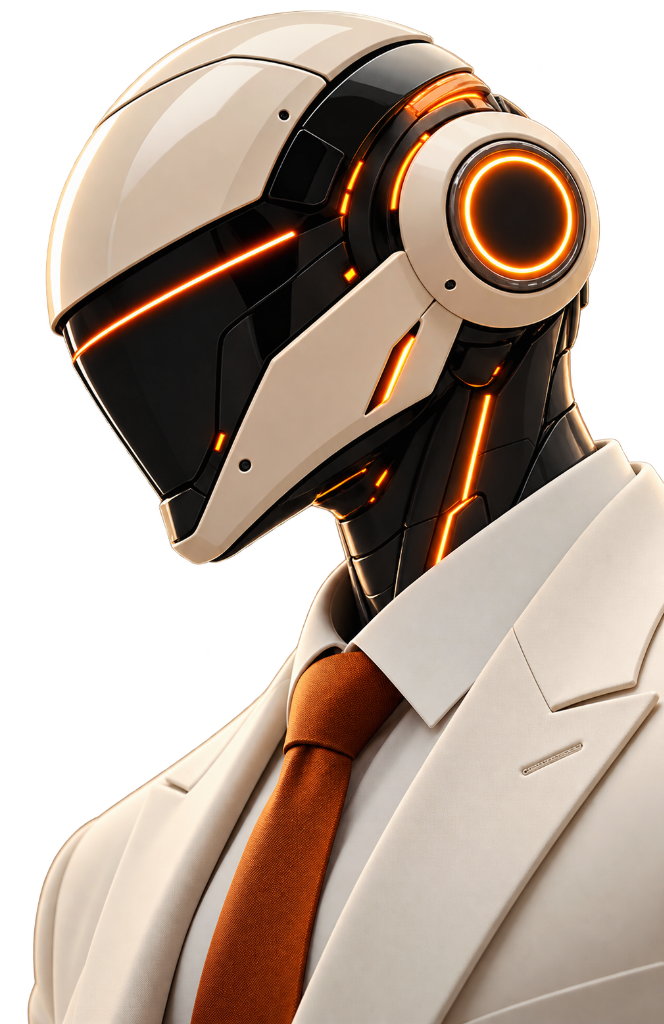
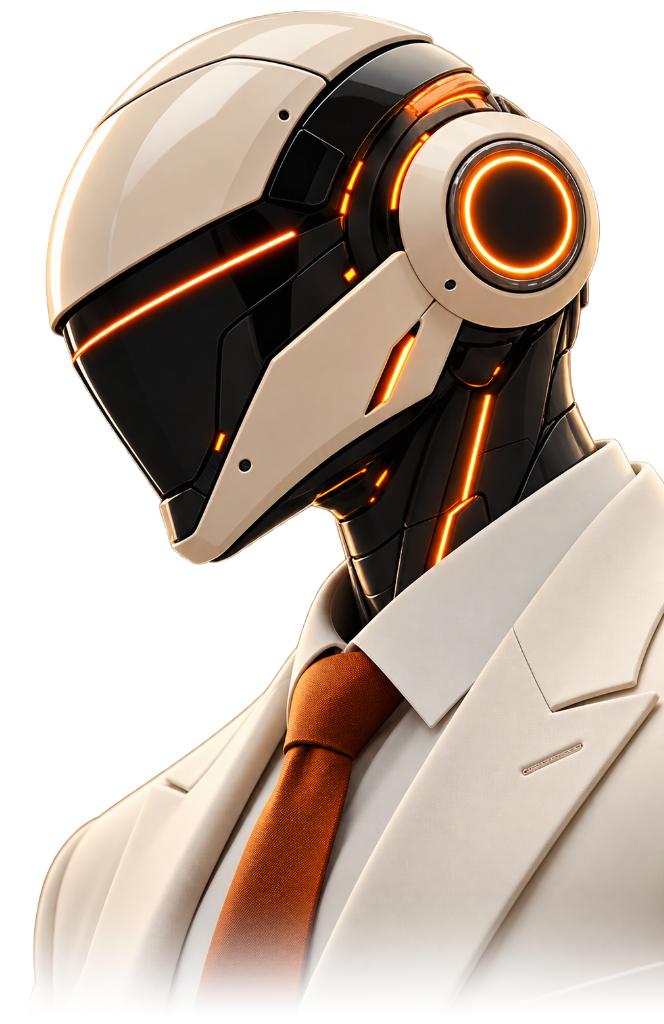
fix(mobile-hero): zoom and stretch robot asset, feather bottom suit edges, and align layout to mockup

Changed region(s): [[0.0301, 0.875, 1.0, 1.0]]

diff --git a/src/components/HeroSection.tsx b/src/components/HeroSection.tsx
@@ -491,7 +491,7 @@ const HeroSectionComponent: React.FC<HeroSectionProps> = ({ onTalkClick }) => {
           .hero-root-section {
             padding-top: 54px !important;
             min-height: auto !important;
-            background-color: #f4ecde !important;
+            background-color: #f5e9d9 !important;
           }
           .mobile-hero-layout {
             position: relative;
@@ -501,7 +501,7 @@ const HeroSectionComponent: React.FC<HeroSectionProps> = ({ onTalkClick }) => {
             flex-direction: column;
             justify-content: flex-end;
             overflow: hidden;
-            background-color: #f4ecde;
+            background-color: #f5e9d9;
             padding: 0 20px 24px 20px;
             box-sizing: border-box;
           }
@@ -509,11 +509,10 @@ const HeroSectionComponent: React.FC<HeroSectionProps> = ({ onTalkClick }) => {
           /* Right-Anchored Background Robot in Suit (Soft fade at lower edge) */
           .mobile-robot-backdrop {
             position: absolute;
-            top: 0;
-            right: 0;
-            left: 0;
-            width: 100%;
-            height: clamp(560px, 78vh, 680px);
+            top: -24px;
+            right: -6%;
+            width: 110%;
+            height: clamp(660px, 86vh, 820px);
             pointer-events: none;
             z-index: 1;
             display: flex;
@@ -536,7 +535,7 @@ const HeroSectionComponent: React.FC<HeroSectionProps> = ({ onTalkClick }) => {
             position: relative;
             z-index: 5;
             width: 100%;
-            margin-top: clamp(250px, 34vh, 320px);
+            margin-top: clamp(260px, 35vh, 320px);
             padding: 0;
           }
 
@@ -548,7 +547,7 @@ const HeroSectionComponent: React.FC<HeroSectionProps> = ({ onTalkClick }) => {
             line-height: 1.1;
             letter-spacing: -0.025em;
             margin: 0 0 14px 0;
-            max-width: 70%;
+            max-width: 85%;
           }
 
           .mobile-hero-subtext {
@@ -558,7 +557,7 @@ const HeroSectionComponent: React.FC<HeroSectionProps> = ({ onTalkClick }) => {
             line-height: 1.45;
             font-weight: 400;
             margin: 0 0 20px 0;
-            max-width: 82%;
+            max-width: 85%;
           }
 
           .mobile-hero-cta-stack {
